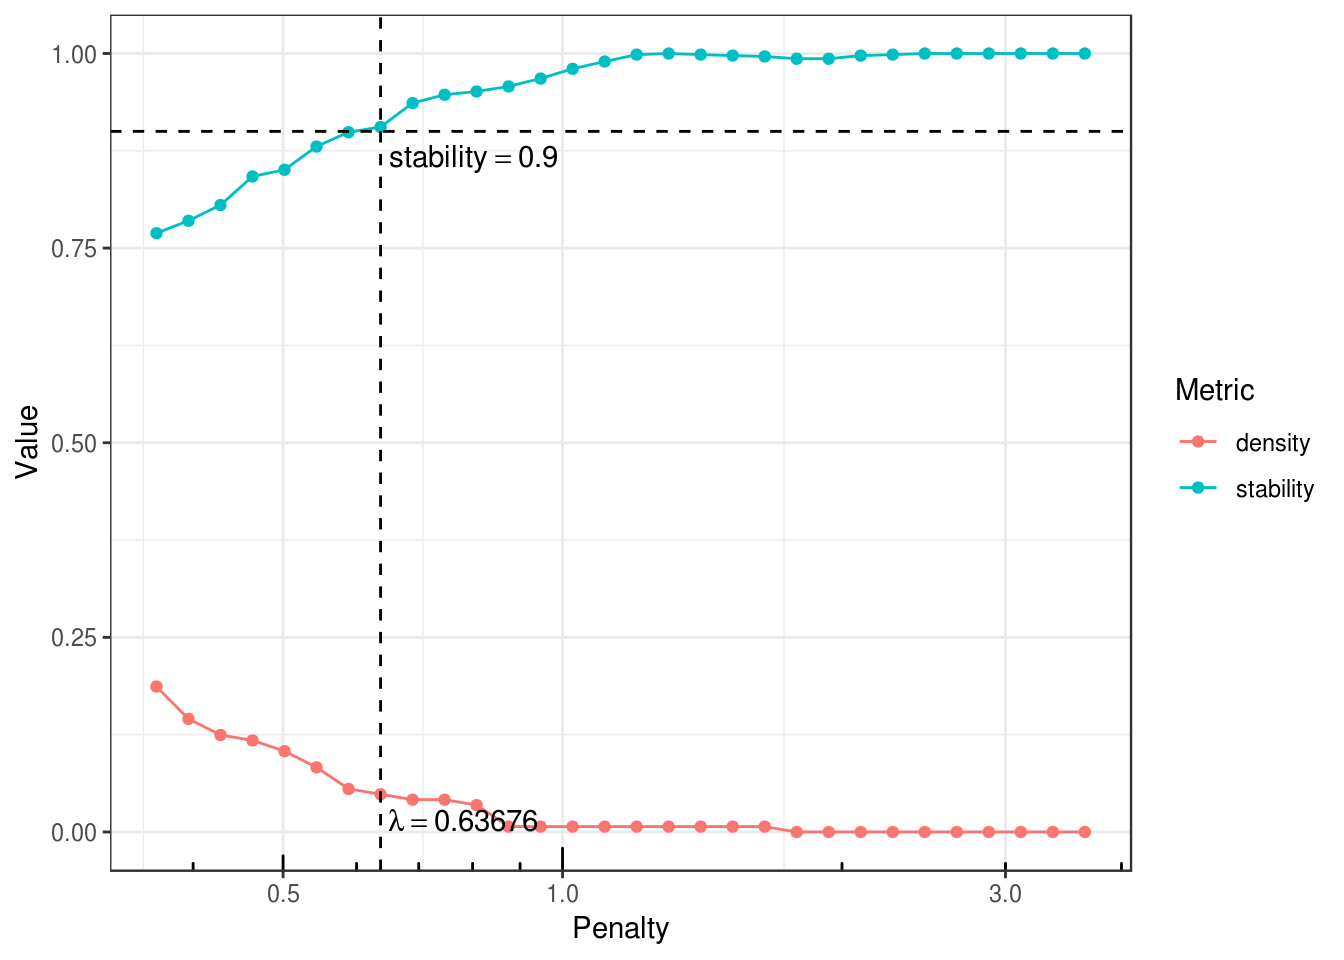
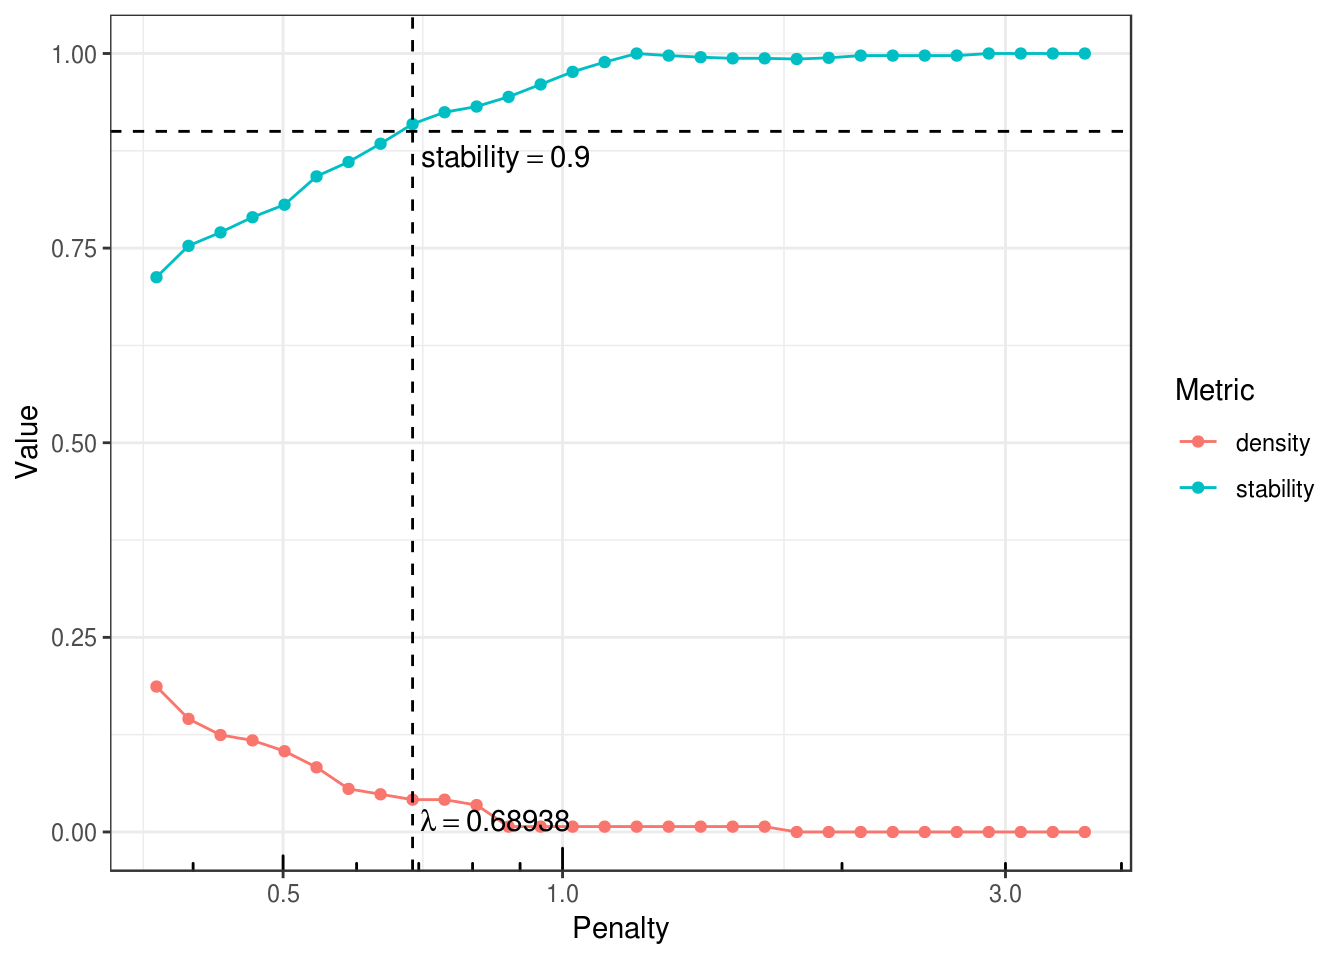
Deploy jchiquet/PLNmodels to github.com/jchiquet/PLNmodels.git:gh-pages

diff --git a/articles/PLNnetwork.html b/articles/PLNnetwork.html
@@ -102,7 +102,7 @@
       <h1>Sparse structure estimation for multivariate count data with PLN-network</h1>
                         <h4 class="author">PLN team</h4>
             
-            <h4 class="date">2019-03-16</h4>
+            <h4 class="date">2019-03-18</h4>
       
       
       <div class="hidden name"><code>PLNnetwork.Rmd</code></div>
@@ -437,12 +437,12 @@
 </h3>
 <p>The variables <code>model_BIC</code>, <code>model_StARS</code> and <code>model_pen</code> are other <code>R6Class</code> objects with class <code>PLNnetworkfit</code>. They all inherits from the class <code>PLNfit</code> and thus own all its methods, with a couple of specific one, mostly for network vizualization purposes. Most fields and methods are recalled when such an object is printed:</p>
 <div class="sourceCode" id="cb17"><pre class="sourceCode r"><code class="sourceCode r"><a class="sourceLine" id="cb17-1" data-line-number="1">model_StARS</a></code></pre></div>
-<pre><code>## Poisson Lognormal with sparse inverse covariance (penalty = 0.637)
+<pre><code>## Poisson Lognormal with sparse inverse covariance (penalty = 0.689)
 ## ==================================================================
-##  nb_param    loglik       BIC      ICL R_squared n_edges     EBIC
-##        24 -1174.595 -1221.297 -2507.99     0.964       7 -1231.68
+##  nb_param    loglik       BIC       ICL R_squared n_edges     EBIC
+##        23 -1176.952 -1221.708 -2508.402     0.964       6 -1231.07
 ##  pen_loglik density
-##   -1177.687   0.048
+##   -1180.199   0.042
 ## ==================================================================
 ## * Useful fields
 ##     $model_par, $latent, $var_par, $optim_par
@@ -459,12 +459,12 @@
 <p>Here, an igraph object can be recovered.</p>
 <div class="sourceCode" id="cb20"><pre class="sourceCode r"><code class="sourceCode r"><a class="sourceLine" id="cb20-1" data-line-number="1">my_graph &lt;-<span class="st"> </span><span class="kw"><a href="https://www.rdocumentation.org/packages/graphics/topics/plot">plot</a></span>(model_StARS, <span class="dt">plot =</span> <span class="ot">FALSE</span>)</a>
 <a class="sourceLine" id="cb20-2" data-line-number="2">my_graph</a></code></pre></div>
-<pre><code>## IGRAPH f44f317 UNW- 17 7 -- 
+<pre><code>## IGRAPH e6370a4 UNW- 17 6 -- 
 ## + attr: name (v/c), label (v/c), label.cex (v/n), size (v/n),
 ## | label.color (v/c), frame.color (v/l), weight (e/n), color (e/c),
 ## | width (e/n)
-## + edges from f44f317 (vertex names):
-## [1] Hym--Hsp Aga--Hfo Aga--Hsp Set--All Set--Hsp Han--Sta Hfo--Hsp</code></pre>
+## + edges from e6370a4 (vertex names):
+## [1] Hym--Hsp Aga--Hsp Set--All Set--Hsp Han--Sta Hfo--Hsp</code></pre>
 <div class="sourceCode" id="cb22"><pre class="sourceCode r"><code class="sourceCode r"><a class="sourceLine" id="cb22-1" data-line-number="1"><span class="kw"><a href="https://www.rdocumentation.org/packages/graphics/topics/plot">plot</a></span>(model_BIC)</a></code></pre></div>
 <p><img src="PLNnetwork_files/figure-html/partial_corr_network-1.png" width="672"></p>
 <div class="sourceCode" id="cb23"><pre class="sourceCode r"><code class="sourceCode r"><a class="sourceLine" id="cb23-1" data-line-number="1"><span class="kw"><a href="https://www.rdocumentation.org/packages/graphics/topics/plot">plot</a></span>(model_StARS)</a></code></pre></div>

diff --git a/reference/PLNnetwork.html b/reference/PLNnetwork.html
@@ -194,9 +194,8 @@ a collection of models with class <code><a href='PLNnetworkfit.html'>PLNnetworkf
 <li><p>"xtol_rel"stop when an optimization step changes every parameters by less than xtol_rel multiplied by the absolute value of the parameter.</p></li>
 <li><p>"xtol_abs"stop when an optimization step changes every parameters by less than xtol_abs.</p></li>
 <li><p>"maxeval"stop when the number of iteration exceeds maxeval. Default is 10000</p></li>
-<li><p>"algorithm"the optimization method used by NLOPT among LD type, i.e. "MMA", "LBFGS",
-    "TNEWTON", "TNEWTON_RESTART", "TNEWTON_PRECOND", "TNEWTON_PRECOND_RESTART",
-    "VAR1", "VAR2". See NLOPTR documentation for further details. Default is "MMA".</p></li>
+<li><p>"algorithm"the optimization method used by NLOPT among LD type, i.e. "CCSAQ", "MMA", "LBFGS",
+    "VAR1", "VAR2". See NLOPT documentation for further details. Default is "CCSAQ".</p></li>
 <li><p>"cores"integer for number of cores used. Default is 1.</p></li>
 <li><p>"trace"integer for verbosity. Useless when <code>cores</code> &gt; 1</p></li>
 <li><p>"ftol_out"outer solver stops when an optimization step changes the objective function by less than xtol multiply by the absolute value of the parameter. Default is 1e-6</p></li>

diff --git a/reference/PLNPCA.html b/reference/PLNPCA.html
@@ -197,8 +197,7 @@ a collection of models with class <code><a href='PLNPCAfit.html'>PLPCAfit</a></c
 <li><p>"maxeval"stop when the number of iteration exceeds maxeval. Default is 10000</p></li>
 <li><p>"maxtime"stop when the optimization time (in seconds) exceeds maxtime. Default is -1 (no restriction)</p></li>
 <li><p>"algorithm"the optimization method used by NLOPT among LD type, i.e. "CCSAQ", "MMA", "LBFGS",
-    "TNEWTON", "TNEWTON_RESTART", "TNEWTON_PRECOND", "TNEWTON_PRECOND_RESTART",
-    "TNEWTON_VAR1", "TNEWTON_VAR2". See NLOPT documentation for further details. Default is "CCSAQ".</p></li>
+    "VAR1", "VAR2". See NLOPT documentation for further details. Default is "CCSAQ".</p></li>
 <li><p>"trace"integer for verbosity. Useless when <code>cores</code> &gt; 1</p></li>
 <li><p>"cores"The number of core used to paralellize jobs over the <code>ranks</code> vector. Default is 1.</p></li>
 </ul>

diff --git a/index.html b/index.html
@@ -162,7 +162,7 @@
 </ul>
 <div class="sourceCode" id="cb4"><pre class="sourceCode r"><code class="sourceCode r"><a class="sourceLine" id="cb4-1" data-line-number="1">devtools<span class="op">::</span><span class="kw"><a href="https://www.rdocumentation.org/packages/devtools/topics/reexports">install_github</a></span>(<span class="st">"jchiquet/PLNmodels@v0.8.2"</span>)</a></code></pre></div>
 <ul>
-<li>Windows users may want to use <a href="https://github.com/jchiquet/PLNmodels/releases/download/v0.7.0.2/PLNmodels_0.8.2.zip">the binary version of the package</a>
+<li>Windows users may want to use <a href="https://github.com/jchiquet/PLNmodels/releases/download/v0.8.2/PLNmodels_0.8.2.zip">the binary version of the package</a>
 </li>
 </ul>
 </div>

diff --git a/reference/PLNLDA.html b/reference/PLNLDA.html
@@ -193,8 +193,7 @@
 <li><p>"maxeval"stop when the number of iteration exceeds maxeval. Default is 10000</p></li>
 <li><p>"maxtime"stop when the optimization time (in seconds) exceeds maxtime. Default is -1 (no restriction)</p></li>
 <li><p>"algorithm"the optimization method used by NLOPT among LD type, i.e. "CCSAQ", "MMA", "LBFGS",
-    "TNEWTON", "TNEWTON_RESTART", "TNEWTON_PRECOND", "TNEWTON_PRECOND_RESTART",
-    "TNEWTON_VAR1", "TNEWTON_VAR2". See NLOPT documentation for further details. Default is "CCSAQ".</p></li>
+    "VAR1", "VAR2". See NLOPT documentation for further details. Default is "CCSAQ".</p></li>
 <li><p>"lower_bound"the lower bound (box constraint) for the variational variance parameters. Default is 1e-4.</p></li>
 </ul>
     

diff --git a/reference/PLN.html b/reference/PLN.html
@@ -190,8 +190,7 @@
 <li><p>"maxeval"stop when the number of iteration exceeds maxeval. Default is 10000</p></li>
 <li><p>"maxtime"stop when the optimization time (in seconds) exceeds maxtime. Default is -1 (no restriction)</p></li>
 <li><p>"algorithm"the optimization method used by NLOPT among LD type, i.e. "CCSAQ", "MMA", "LBFGS",
-    "TNEWTON", "TNEWTON_RESTART", "TNEWTON_PRECOND", "TNEWTON_PRECOND_RESTART",
-    "TNEWTON_VAR1", "TNEWTON_VAR2". See NLOPT documentation for further details. Default is "CCSAQ".</p></li>
+    "VAR1", "VAR2". See NLOPT documentation for further details. Default is "CCSAQ".</p></li>
 </ul>
     
     <h2 class="hasAnchor" id="see-also"><a class="anchor" href="#see-also"></a>See also</h2>

diff --git a/articles/PLNLDA.html b/articles/PLNLDA.html
@@ -102,7 +102,7 @@
       <h1>Supervized classification of multivariate count table with the Poisson discriminant Analysis</h1>
                         <h4 class="author">PLN team</h4>
             
-            <h4 class="date">2019-03-16</h4>
+            <h4 class="date">2019-03-18</h4>
       
       
       <div class="hidden name"><code>PLNLDA.Rmd</code></div>

diff --git a/articles/PLN.html b/articles/PLN.html
@@ -103,7 +103,7 @@
       <h1>Analyzing multivariate count data with the Poisson log-normal model</h1>
                         <h4 class="author">PLN team</h4>
             
-            <h4 class="date">2019-03-16</h4>
+            <h4 class="date">2019-03-18</h4>
       
       
       <div class="hidden name"><code>PLN.Rmd</code></div>

diff --git a/articles/PLNPCA.html b/articles/PLNPCA.html
@@ -102,7 +102,7 @@
       <h1>Dimension reduction of multivariate count data with PLN-PCA</h1>
                         <h4 class="author">PLN team</h4>
             
-            <h4 class="date">2019-03-16</h4>
+            <h4 class="date">2019-03-18</h4>
       
       
       <div class="hidden name"><code>PLNPCA.Rmd</code></div>

diff --git a/articles/Trichoptera.html b/articles/Trichoptera.html
@@ -102,7 +102,7 @@
       <h1>Description of the Trichoptera data set</h1>
                         <h4 class="author">PLN team</h4>
             
-            <h4 class="date">2019-03-16</h4>
+            <h4 class="date">2019-03-18</h4>
       
       
       <div class="hidden name"><code>Trichoptera.Rmd</code></div>

diff --git a/articles/Import_data.html b/articles/Import_data.html
@@ -102,7 +102,7 @@
       <h1>Data importation in PLNmodels</h1>
                         <h4 class="author">PLN team</h4>
             
-            <h4 class="date">2019-03-16</h4>
+            <h4 class="date">2019-03-18</h4>
       
       
       <div class="hidden name"><code>Import_data.Rmd</code></div>
